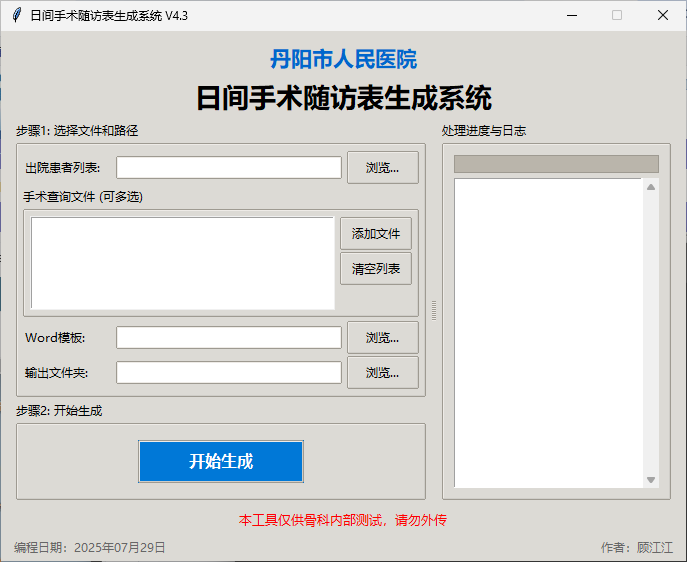
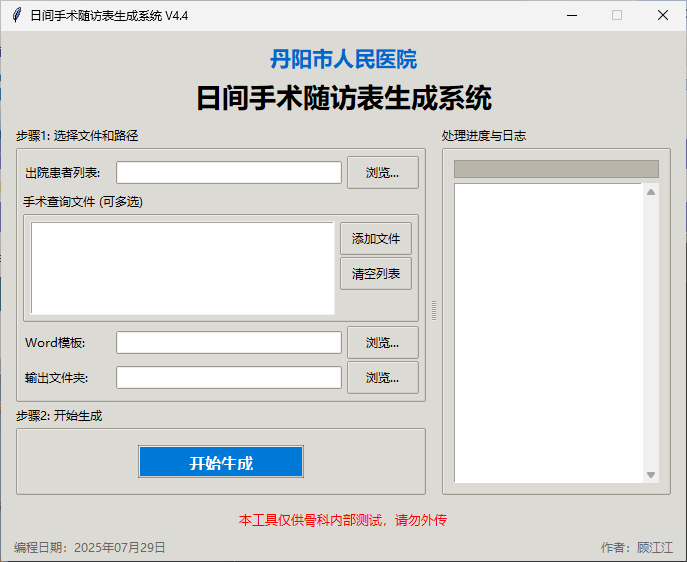
v4.4 微调左右实现两侧功能块边框的完美垂直对齐
- [UI终版] 微调左右两栏的内边距(padding)，实现两侧功能块边框的完美垂直对齐。
- [UI终版] 这是结合了所有用户反馈的最终稳定版本。

diff --git a/source/day_durgery_form_automator.py b/source/day_durgery_form_automator.py
@@ -2,12 +2,12 @@
 """
 日间手术随访表生成系统 (功能增强版)
 
-版本 V4.3 更新内容:
-- [UI终版] 修正了分栏限制的事件处理逻辑，通过返回"break"中断事件传播，确保拖拽范围限制(320px-520px)严格生效。
+版本 V4.4 更新内容:
+- [UI终版] 微调左右两栏的内边距(padding)，实现两侧功能块边框的完美垂直对齐。
 - [UI终版] 这是结合了所有用户反馈的最终稳定版本。
 
-版本 V4.2 更新内容:
-- [UI修正] 为可拖拽的左右分栏增加了范围限制。(此方案在V4.3中被修正)
+版本 V4.3 更新内容:
+- [UI修正] 修正了分栏限制的事件处理逻辑，确保拖拽范围限制(320px-520px)严格生效。
 
 作者：顾江江 (由AI优化和修复)
 """
@@ -36,7 +36,7 @@ except ImportError:
 
 # ======================== 全局配置 ========================
 CONFIG = {
-    "app_title": "日间手术随访表生成系统 V4.3",
+    "app_title": "日间手术随访表生成系统 V4.4",
     "day_surgery_max_days": 2,
     "column_mapping": {
         "name": "姓名", "department": "出院科室", "hospital_id": "住院号",
@@ -339,27 +339,25 @@ class App:
         main_pane = ttk.PanedWindow(self.root, orient=tk.HORIZONTAL)
         main_pane.pack(fill=tk.BOTH, expand=True, padx=10, pady=(0, 5))
 
-        # 左侧控制面板
-        left_panel = ttk.Frame(main_pane, padding=(5, 0, 5, 0))
+        # V4.4: 统一左右面板的垂直padding以对齐边框
+        left_panel = ttk.Frame(main_pane, padding=(5, 5, 5, 5))
         main_pane.add(left_panel)
 
-        # 右侧日志面板
-        right_panel = ttk.Frame(main_pane, padding=(5, 0, 5, 0))
+        right_panel = ttk.Frame(main_pane, padding=(5, 5, 5, 5))
         main_pane.add(right_panel)
 
-        # V4.2: 关键修正 - 绑定<Configure>事件来设置初始分栏位置并添加范围限制
+        # 绑定事件来设置初始分栏位置并添加范围限制
         def set_initial_sash(event):
             main_pane.sashpos(0, 420)
             main_pane.unbind("<Configure>")
         
         def limit_sash_movement(event):
-            # 使用 event.x 获取鼠标当前位置来判断
             if event.x < 320:
                 main_pane.sashpos(0, 320)
-                return "break" # 中断事件，防止默认行为覆盖我们的设置
+                return "break"
             if event.x > 520:
                 main_pane.sashpos(0, 520)
-                return "break" # 中断事件
+                return "break"
 
         main_pane.bind("<Configure>", set_initial_sash)
         main_pane.bind("<B1-Motion>", limit_sash_movement)
@@ -367,7 +365,8 @@ class App:
 
         # --- 将控件填充到左侧面板 ---
         file_frame = ttk.LabelFrame(left_panel, text="步骤1: 选择文件和路径", padding=5)
-        file_frame.pack(fill=tk.BOTH, expand=True, pady=(0, 5))
+        # V4.4: 移除此处的pady，由父容器的padding控制
+        file_frame.pack(fill=tk.BOTH, expand=True) 
         
         self.excel_path_var = tk.StringVar()
         self.template_path_var = tk.StringVar()
@@ -389,7 +388,11 @@ class App:
         self.create_file_selector(file_frame, "Word模板:", self.template_path_var, self.select_template_file)
         self.create_file_selector(file_frame, "输出文件夹:", self.output_dir_var, self.select_output_dir)
         
-        control_frame = ttk.LabelFrame(left_panel, text="步骤2: 开始生成", padding=10)
+        # V4.4: 将第二个LabelFrame也放在一个容器里，以实现对齐
+        left_bottom_container = ttk.Frame(left_panel)
+        left_bottom_container.pack(fill=tk.X, pady=(5,0)) # 5px的间距
+
+        control_frame = ttk.LabelFrame(left_bottom_container, text="步骤2: 开始生成", padding=10)
         control_frame.pack(fill=tk.X)
         style.configure("Accent.TButton", foreground="white", background="#0078D7", font=self.font_button)
         self.start_button = ttk.Button(control_frame, text="开始生成", command=self.start_generation, style="Accent.TButton")

diff --git a/docs/changelog.md b/docs/changelog.md
@@ -91,3 +91,7 @@
 #### 版本 V4.3 更新内容:
 - [UI终版] 修正了分栏限制的事件处理逻辑，通过返回"break"中断事件传播，确保拖拽范围限制(320px-520px)严格生效。
 - [UI终版] 这是结合了所有用户反馈的最终稳定版本。
+
+#### 版本 V4.4 更新内容:
+- [UI终版] 微调左右两栏的内边距(padding)，实现两侧功能块边框的完美垂直对齐。
+- [UI终版] 这是结合了所有用户反馈的最终稳定版本。
